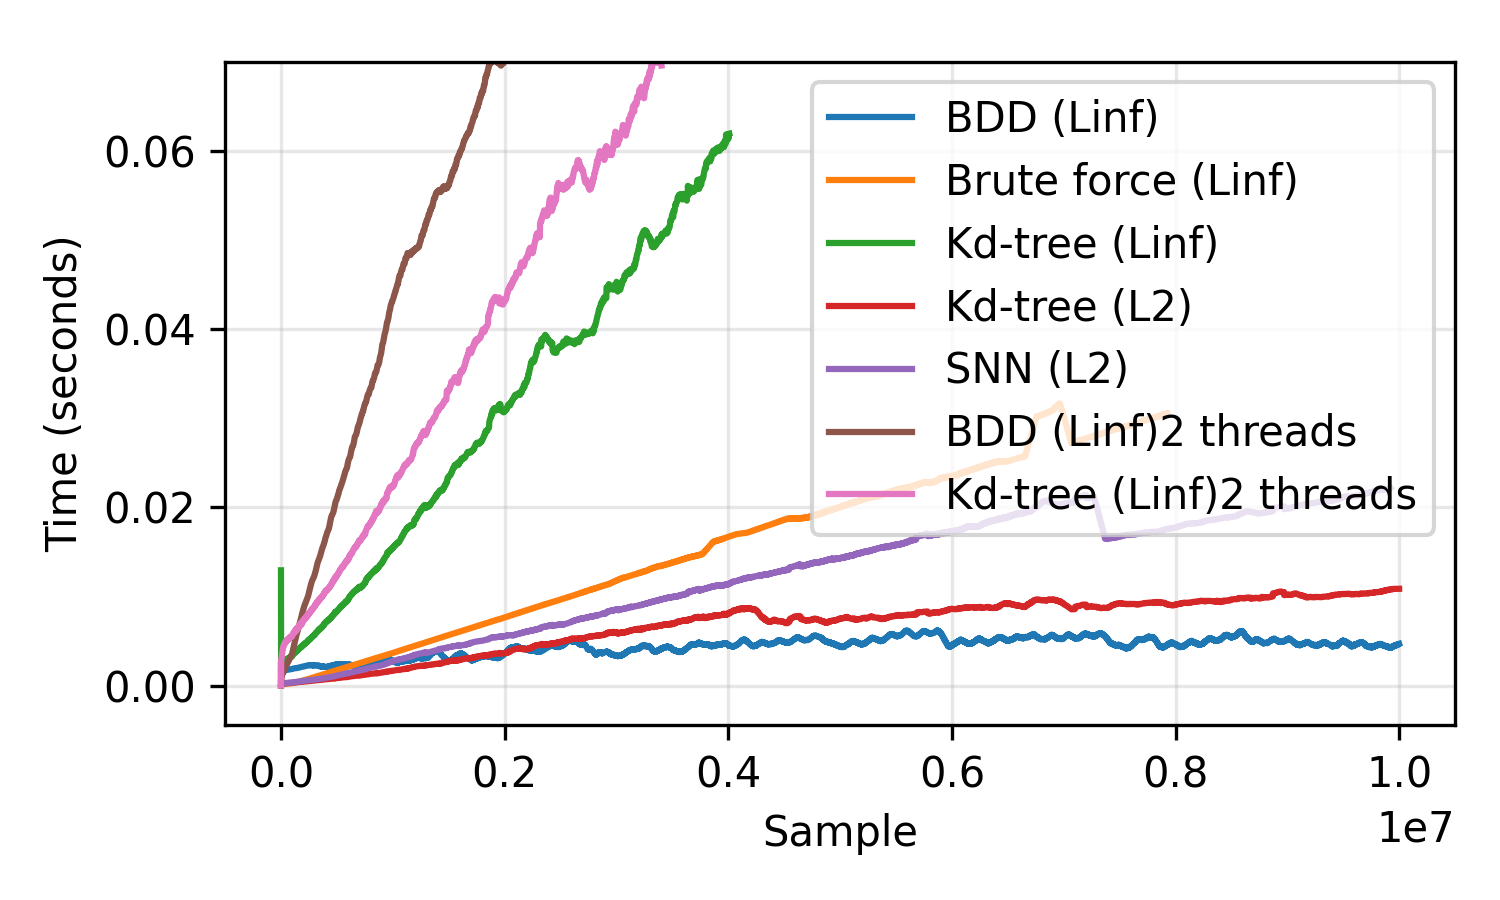
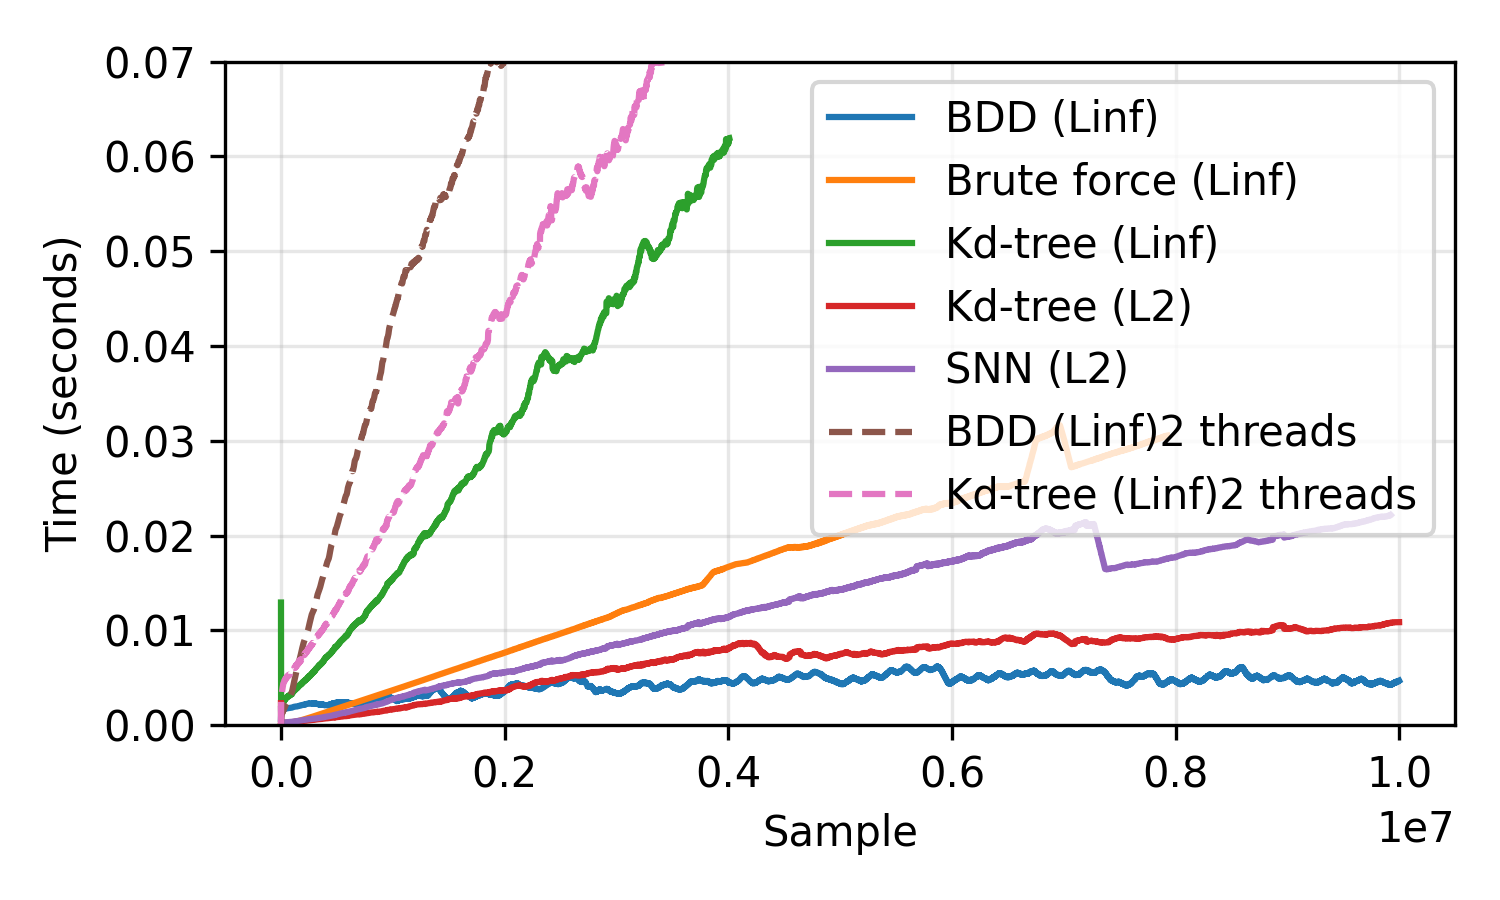
update perf plots

diff --git a/results/performance/plot.py b/results/performance/plot.py
@@ -90,11 +90,11 @@ plt.figure(figsize=(5, 3))
 for item in data:
     x = np.arange(len(item['timings'][args.omit_beginning:]))[::1000]
     y = rolling_average(item['timings'][args.omit_beginning:], args.windowsize)[::1000]
-    plt.plot(x, y, '-' if item['paralleliation'] == '1' else '--', label=item["name"])
+    plt.plot(x, y, '-' if item['parallelization'] == '1' else '--', label=item["name"])
 
 plt.xlabel('Sample')
 plt.ylabel('Time (seconds)')
-plt.ylim(top=0.07)
+plt.ylim(top=0.07, bottom=0)
 plt.grid(True, alpha=0.3)
 #plt.title(f"dropcols={args.sample}, eps={args.eps}")
 plt.legend()
